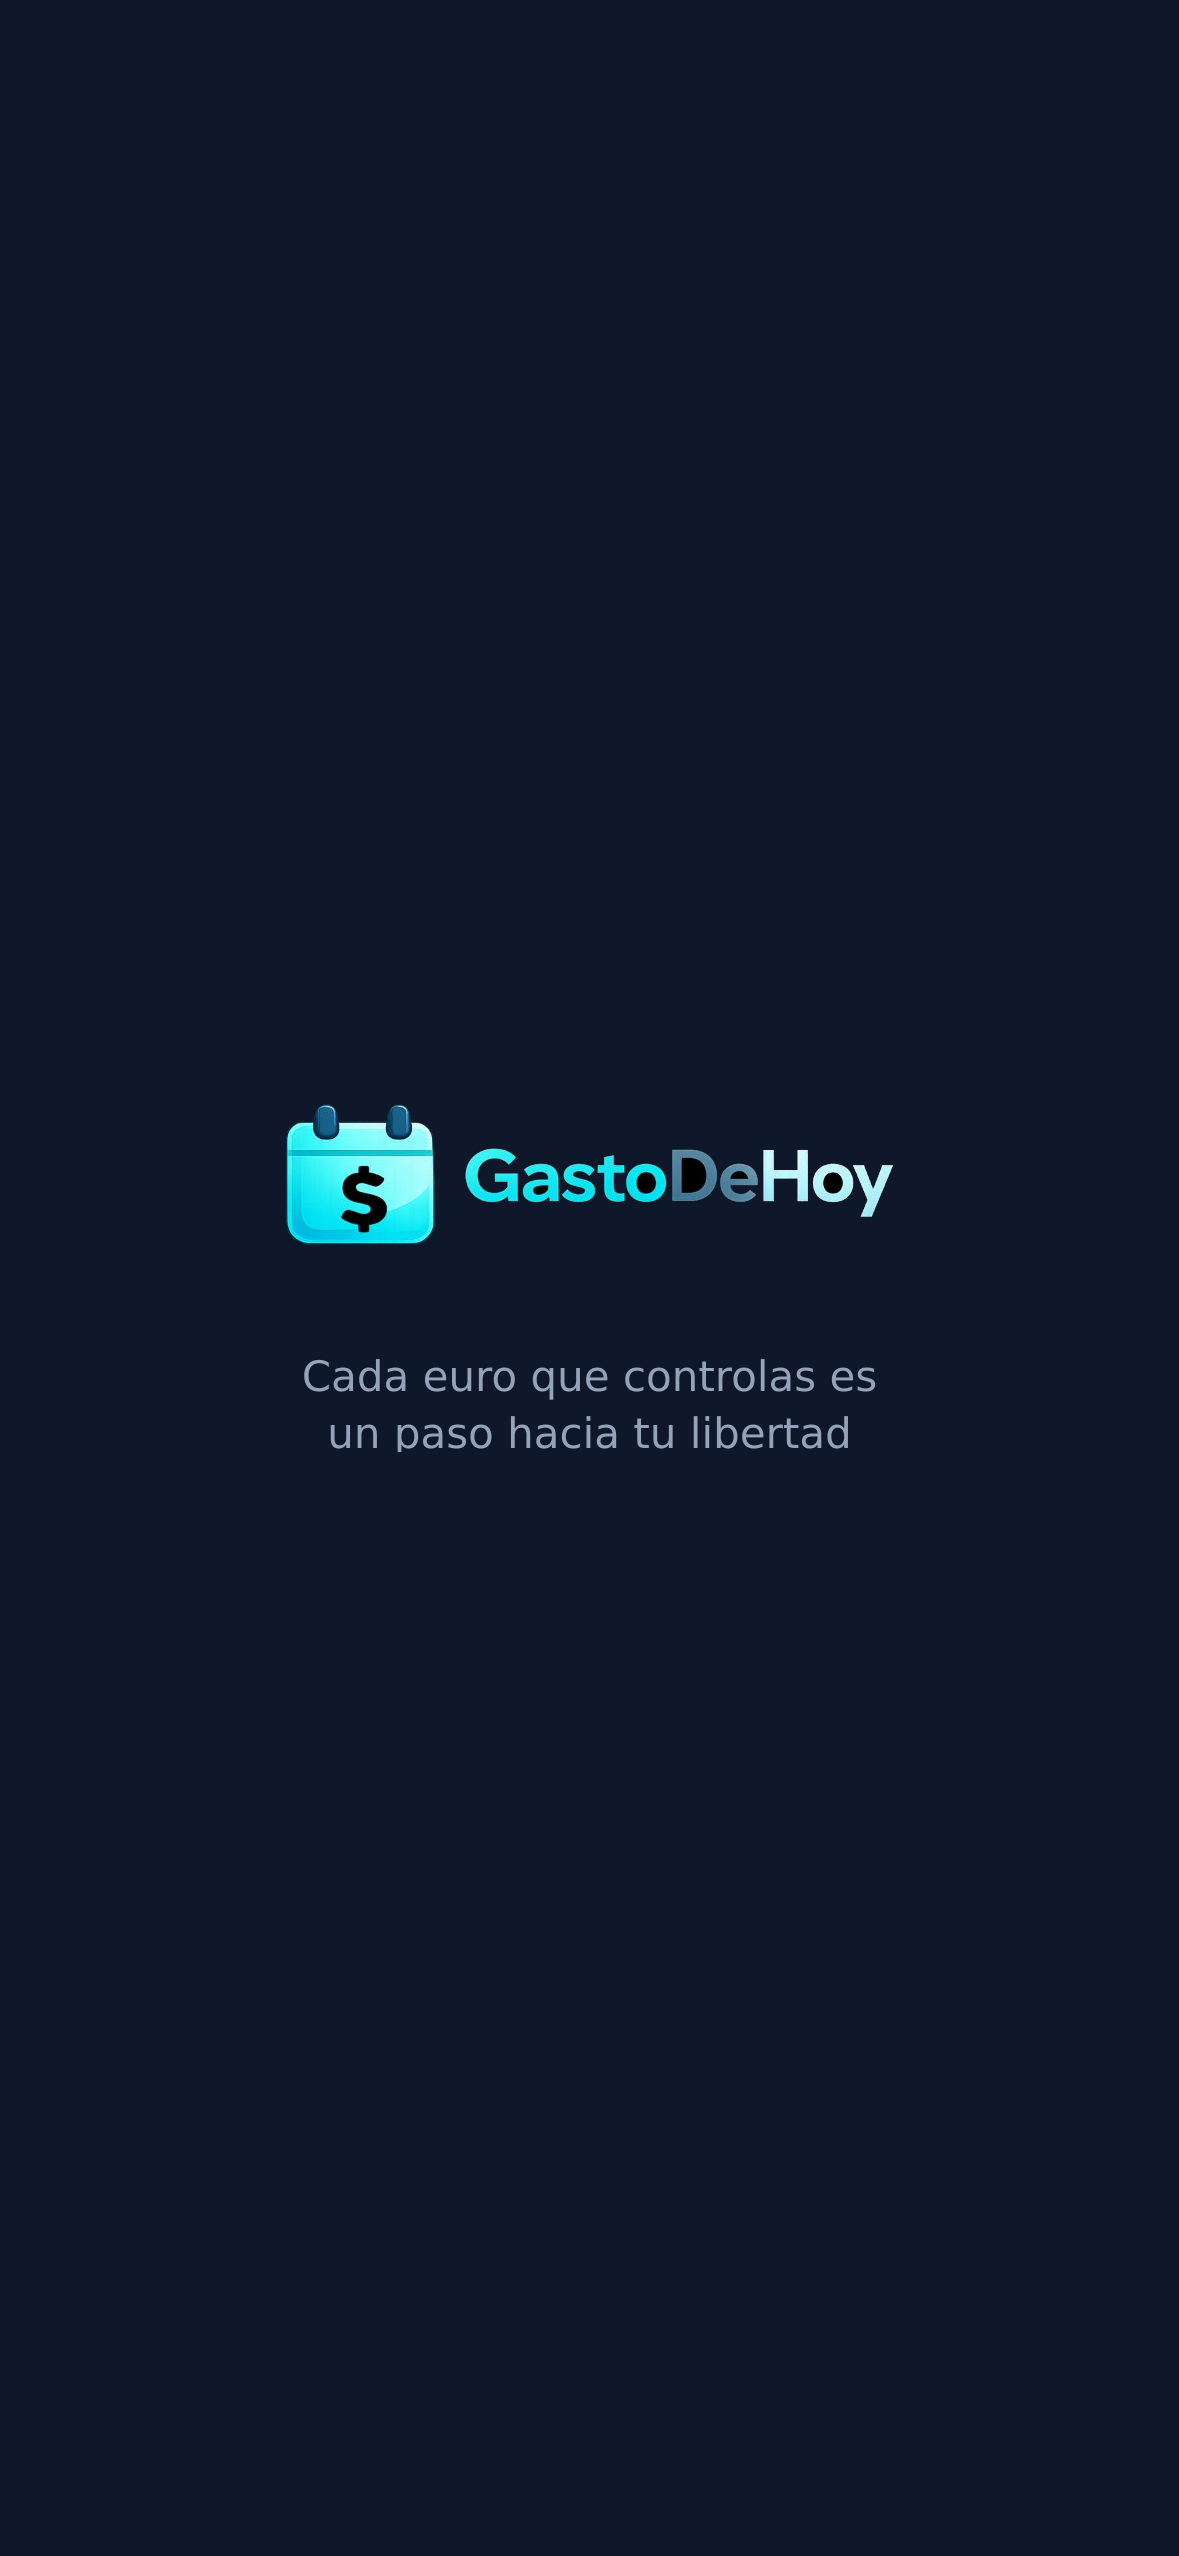
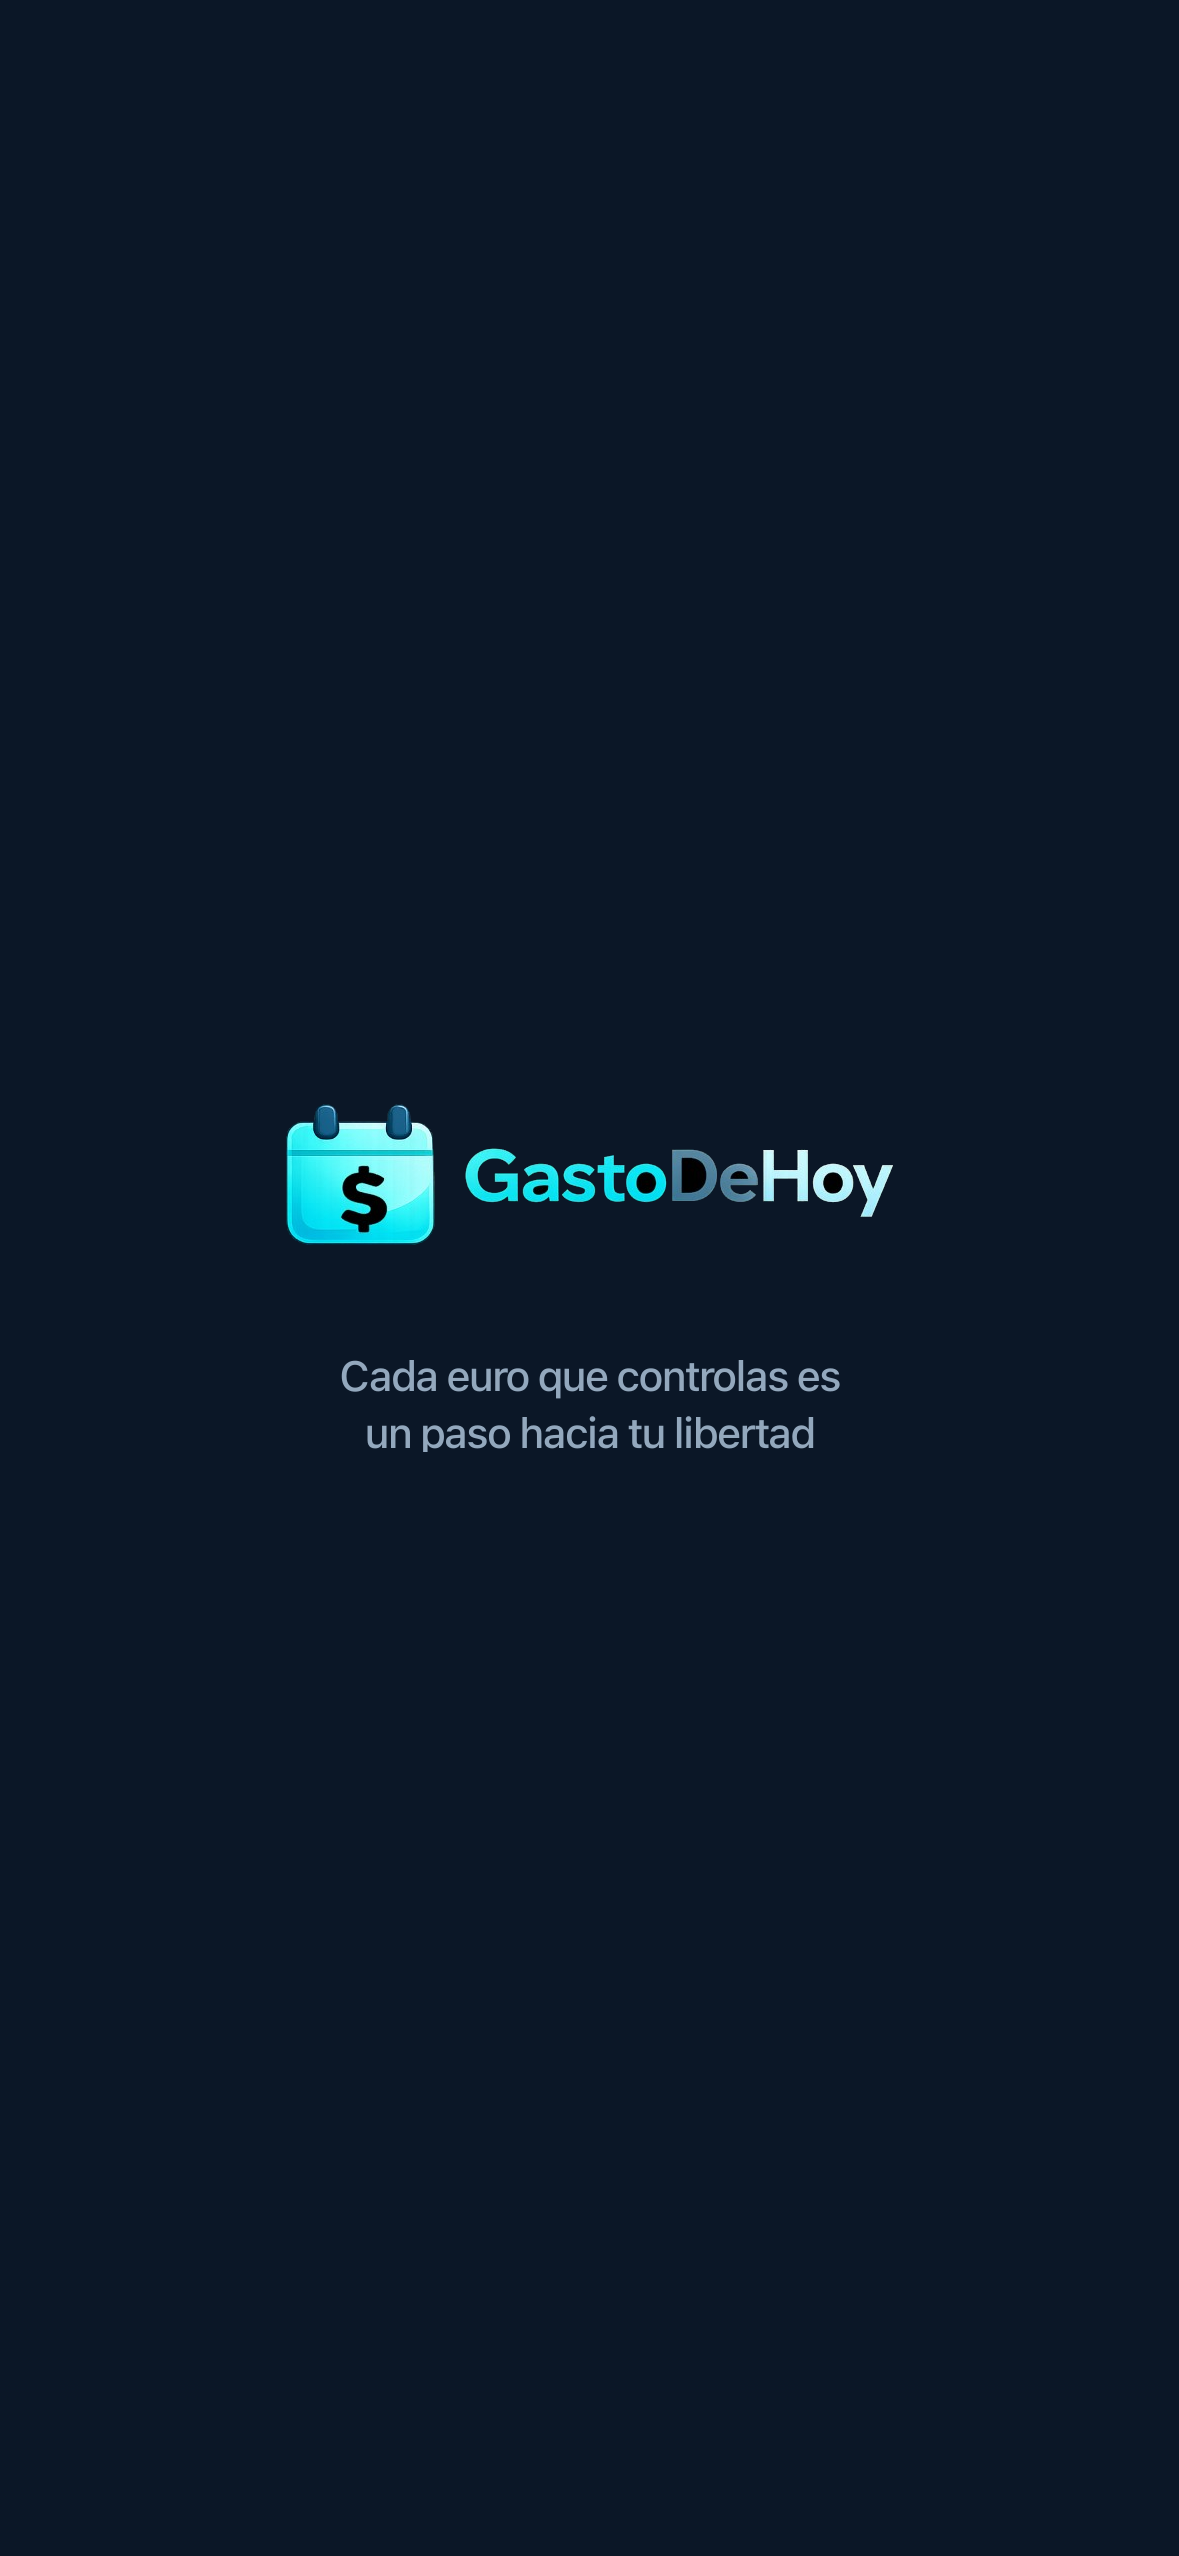
feat(estilo): aplica la paleta nueva a los tokens y mide los contrastes

Changed region(s): [[0.2748, 0.5254, 0.7328, 0.5872]]

diff --git a/web/src/index.css b/web/src/index.css
@@ -15,31 +15,34 @@
   --font-display: "Space Grotesk", system-ui, sans-serif;
   --font-mono: "JetBrains Mono", ui-monospace, monospace;
 
-  /* Claro (base cuando no hay .dark) — página suave, tarjetas blancas con borde legible */
-  --color-bg: #eef2f6;
-  --color-bg-soft: #e4ebf2;
+  /* Claro (base cuando no hay .dark) — página suave, tarjetas blancas con borde legible.
+     Paleta: azul oscuro #13233A, turquesa #29C5DC, verde #1F9D6B, ámbar #F2B84B.
+     En claro el turquesa, el verde y el ámbar son demasiado claros para texto
+     sobre blanco, así que se oscurecen (mismo tono) para el texto y el relleno. */
+  --color-bg: #eef3f8;
+  --color-bg-soft: #e3ebf3;
   --color-panel: #ffffff;
-  --color-panel-elevated: #f5f8fb;
-  --color-border: #c8d4e0;
-  --color-border-subtle: #d7e0ea;
-  --color-accent: #0e7490;
-  --color-accent-dim: rgb(14 116 144 / 0.12);
-  --color-accent-border: rgb(14 116 144 / 0.35);
-  --color-accent-ink: #ecfeff;
-  --color-ok: #059669;
-  --color-ok-dim: #ecfdf5;
-  --color-ok-border: rgb(5 150 105 / 0.35);
-  --color-warn: #d97706;
-  --color-warn-dim: #fffbeb;
-  --color-warn-border: rgb(217 119 6 / 0.35);
-  --color-crit: #e11d48;
+  --color-panel-elevated: #f4f8fb;
+  --color-border: #c6d3e1;
+  --color-border-subtle: #d5dfeb;
+  --color-accent: #0b7285;
+  --color-accent-dim: rgb(11 114 133 / 0.12);
+  --color-accent-border: rgb(11 114 133 / 0.35);
+  --color-accent-ink: #f0fdff;
+  --color-ok: #14785a;
+  --color-ok-dim: #e6f6ef;
+  --color-ok-border: rgb(20 120 90 / 0.35);
+  --color-warn: #8a5a00;
+  --color-warn-dim: #fdf3dc;
+  --color-warn-border: rgb(138 90 0 / 0.35);
+  --color-crit: #be123c;
   --color-crit-dim: #fff1f2;
-  --color-crit-border: rgb(225 29 72 / 0.32);
-  --color-text: #0f172a;
-  --color-text-muted: #475569;
-  --color-text-dim: #64748b;
-  --shadow-surface: 0 1px 2px rgb(15 23 42 / 0.05), 0 0 0 1px rgb(15 23 42 / 0.03);
-  --shadow-overlay: 0 16px 40px rgb(15 23 42 / 0.12);
+  --color-crit-border: rgb(190 18 60 / 0.32);
+  --color-text: #13233a;
+  --color-text-muted: #43546a;
+  --color-text-dim: #566478;
+  --shadow-surface: 0 1px 2px rgb(19 35 58 / 0.06), 0 0 0 1px rgb(19 35 58 / 0.03);
+  --shadow-overlay: 0 16px 40px rgb(19 35 58 / 0.14);
 }
 
 html {
@@ -54,30 +57,30 @@ html {
 
 html.dark {
   color-scheme: dark;
-  --color-bg: #070a0d;
-  --color-bg-soft: #0a0f14;
-  --color-panel: #0e141a;
-  --color-panel-elevated: #16202a;
-  --color-border: #182430;
-  --color-border-subtle: #223040;
-  --color-accent: #22d3ee;
-  --color-accent-dim: rgb(34 211 238 / 0.12);
-  --color-accent-border: rgb(34 211 238 / 0.32);
-  --color-accent-ink: #04222a;
-  --color-ok: #34d399;
-  --color-ok-dim: #0f2a22;
-  --color-ok-border: rgb(52 211 153 / 0.35);
-  --color-warn: #fbbf24;
-  --color-warn-dim: #2e2410;
-  --color-warn-border: rgb(251 191 36 / 0.3);
+  --color-bg: #0b1727;
+  --color-bg-soft: #0e1c2f;
+  --color-panel: #13233a;
+  --color-panel-elevated: #1a2e49;
+  --color-border: #223853;
+  --color-border-subtle: #2c4666;
+  --color-accent: #29c5dc;
+  --color-accent-dim: rgb(41 197 220 / 0.14);
+  --color-accent-border: rgb(41 197 220 / 0.34);
+  --color-accent-ink: #0b1727;
+  --color-ok: #3ecf97;
+  --color-ok-dim: #10312b;
+  --color-ok-border: rgb(62 207 151 / 0.35);
+  --color-warn: #f2b84b;
+  --color-warn-dim: #35290f;
+  --color-warn-border: rgb(242 184 75 / 0.34);
   --color-crit: #fb7185;
-  --color-crit-dim: #301620;
+  --color-crit-dim: #351927;
   --color-crit-border: rgb(251 113 133 / 0.32);
-  --color-text: #eef4f9;
-  --color-text-muted: #b4c5d4;
-  --color-text-dim: #8fa3b3;
-  --shadow-surface: 0 1px 0 rgb(0 0 0 / 0.12);
-  --shadow-overlay: 0 16px 48px rgb(0 0 0 / 0.45);
+  --color-text: #eef4fa;
+  --color-text-muted: #b7c8da;
+  --color-text-dim: #93a8bd;
+  --shadow-surface: 0 1px 0 rgb(0 0 0 / 0.16);
+  --shadow-overlay: 0 16px 48px rgb(0 0 0 / 0.5);
 }
 
 /*

diff --git a/web/index.html b/web/index.html
@@ -4,8 +4,8 @@
     <!-- MUST be first — theme class + bg before paint (react-theme-switch-animation: localStorage.theme) -->
     <script>
       (function () {
-        var bgDark = "#070A0D";
-        var bgLight = "#eef2f6";
+        var bgDark = "#0B1727";
+        var bgLight = "#eef3f8";
         /* Brand default: dark. Only "light" opts out. */
         var theme = "dark";
         try {
@@ -32,7 +32,7 @@
     <meta name="keywords" content="gastos, control de gastos, presupuesto, finanzas personales, ahorro, dinero, gestión financiera, gastos diarios" />
     <meta name="author" content="GastoDeHoy" />
     <meta name="robots" content="index, follow" />
-    <meta name="theme-color" content="#070A0D" />
+    <meta name="theme-color" content="#0B1727" />
     <meta http-equiv="Cache-Control" content="no-store, no-cache, must-revalidate" />
     <meta http-equiv="Pragma" content="no-cache" />
     <meta http-equiv="Expires" content="0" />
@@ -76,12 +76,12 @@
         height: 100%;
         overflow: hidden;
         font-family: system-ui, -apple-system, "Segoe UI", sans-serif;
-        background: #eef2f6 !important;
-        color: #0f172a;
+        background: #eef3f8 !important;
+        color: #13233a;
       }
       html.dark, html.dark body, html.dark #root {
-        background: #070A0D !important;
-        color: #e2e8f0;
+        background: #0B1727 !important;
+        color: #eef4fa;
       }
       html {
         height: 100dvh;
@@ -98,9 +98,9 @@
           max(1.25rem, env(safe-area-inset-bottom))
           max(1.25rem, env(safe-area-inset-left));
         box-sizing: border-box;
-        background: #eef2f6;
+        background: #eef3f8;
       }
-      html.dark #boot-splash { background: #070A0D; }
+      html.dark #boot-splash { background: #0B1727; }
       #boot-splash .boot-splash__inner {
         display: flex;
         flex-direction: column;
@@ -125,9 +125,9 @@
         font-size: 1rem;
         line-height: 1.5;
         font-weight: 500;
-        color: #475569;
+        color: #43546a;
       }
-      html.dark #boot-splash .boot-splash__tagline { color: #94a3b8; }
+      html.dark #boot-splash .boot-splash__tagline { color: #93a8bd; }
     </style>
     <script type="application/ld+json">
     {

diff --git a/web/src/components/dashboard/month-history-strip.tsx b/web/src/components/dashboard/month-history-strip.tsx
@@ -328,7 +328,7 @@ export function MonthHistoryStrip() {
                                 key={it.id}
                                 className="truncate rounded px-1 py-px text-[10px] font-medium leading-tight text-[var(--color-text)]"
                                 style={{
-                                  backgroundColor: `${it.category_color ?? "#22d3ee"}33`,
+                                  backgroundColor: `${it.category_color ?? "#29c5dc"}33`,
                                   color: it.category_color ?? "var(--color-accent)",
                                 }}
                               >
@@ -388,7 +388,7 @@ export function MonthHistoryStrip() {
                       <span
                         className="flex h-9 w-9 shrink-0 items-center justify-center rounded-lg"
                         style={{
-                          backgroundColor: `${it.category_color ?? "#223040"}22`,
+                          backgroundColor: `${it.category_color ?? "#2c4666"}22`,
                           color: it.category_color ?? "var(--color-accent)",
                         }}
                         aria-hidden

diff --git a/web/src/components/dashboard/variable-expenses-section.tsx b/web/src/components/dashboard/variable-expenses-section.tsx
@@ -132,7 +132,7 @@ export function VariableExpensesSection({
                       <div className="flex min-w-0 items-center gap-2">
                         <CatIcon
                           className="gdh-icon shrink-0"
-                          style={{ color: it.category_color ?? "#8fa3b3" }}
+                          style={{ color: it.category_color ?? "#93a8bd" }}
                         />
                         <p className="truncate font-semibold tabular-nums text-[var(--color-accent)]/90">
                           {money(it.amount)}

diff --git a/web/vite.config.ts b/web/vite.config.ts
@@ -43,8 +43,8 @@ export default defineConfig(({ mode }) => {
           short_name: "GastoDeHoy",
           description:
             "Descubre cuánto puedes gastar hoy y controla tus gastos diarios con tu presupuesto personal.",
-          theme_color: "#070A0D",
-          background_color: "#070A0D",
+          theme_color: "#0B1727",
+          background_color: "#0B1727",
           display: "standalone",
           id: "/",
           scope: "/",

diff --git a/web/src/components/theme-toggle.tsx b/web/src/components/theme-toggle.tsx
@@ -17,7 +17,7 @@ export function ThemeToggle({ className = "", size = "md" }: Props) {
   useEffect(() => {
     const meta = document.querySelector('meta[name="theme-color"]');
     if (meta) {
-      meta.setAttribute("content", isDark ? "#070A0D" : "#eef2f6");
+      meta.setAttribute("content", isDark ? "#0B1727" : "#eef3f8");
     }
   }, [isDark]);
 

diff --git a/web/src/components/theme-provider.tsx b/web/src/components/theme-provider.tsx
@@ -54,8 +54,8 @@ function writeTheme(isDark: boolean) {
   }
   document.documentElement.classList.toggle("dark", isDark);
   document.documentElement.style.backgroundColor = isDark
-    ? "#070A0D"
-    : "#eef2f6";
+    ? "#0B1727"
+    : "#eef3f8";
 }
 
 export function ThemeProvider({ children }: { children: ReactNode }) {

diff --git a/tools/check_contrast.py b/tools/check_contrast.py
@@ -1,0 +1,129 @@
+"""Mide los contrastes WCAG de los tokens de color de web/src/index.css.
+
+Uso:  python3 tools/check_contrast.py          (sale con código 1 si algo falla)
+
+Lee los tokens del tema claro (bloque @theme) y del oscuro (html.dark) y
+comprueba las parejas texto/fondo que usa la interfaz. Solo mira colores
+sólidos (#rrggbb); los semitransparentes (rgb(... / 0.12)) se mezclan sobre
+el fondo de la tarjeta antes de medir.
+"""
+
+from __future__ import annotations
+
+import re
+import sys
+from pathlib import Path
+
+CSS = Path(__file__).resolve().parents[1] / "web" / "src" / "index.css"
+
+TEXT = 4.5  # WCAG AA, texto normal
+UI = 3.0  # WCAG AA, componentes y gráficos
+
+
+def parse_block(css: str, start: str) -> dict[str, str]:
+    """Variables --color-* del bloque que empieza en `start`."""
+    i = css.index(start)
+    j = css.index("{", i)
+    depth, k = 0, j
+    while True:
+        if css[k] == "{":
+            depth += 1
+        elif css[k] == "}":
+            depth -= 1
+            if depth == 0:
+                break
+        k += 1
+    body = css[j:k]
+    return {
+        m.group(1): m.group(2).strip()
+        for m in re.finditer(r"--color-([a-z0-9-]+):\s*([^;]+);", body)
+    }
+
+
+def to_rgb(value: str, over: tuple[float, float, float] | None = None):
+    value = value.strip()
+    if value.startswith("#"):
+        h = value[1:]
+        if len(h) == 3:
+            h = "".join(c * 2 for c in h)
+        return tuple(int(h[n : n + 2], 16) for n in (0, 2, 4))
+    m = re.fullmatch(r"rgb\(\s*(\d+)\s+(\d+)\s+(\d+)\s*(?:/\s*([\d.]+))?\)", value)
+    if m:
+        r, g, b = (int(m.group(n)) for n in (1, 2, 3))
+        a = float(m.group(4)) if m.group(4) else 1.0
+        if over is None:
+            return (r, g, b)
+        return tuple(round(a * c + (1 - a) * o) for c, o in zip((r, g, b), over))
+    raise ValueError(f"color no reconocido: {value}")
+
+
+def lum(rgb) -> float:
+    def ch(c):
+        c /= 255
+        return c / 12.92 if c <= 0.03928 else ((c + 0.055) / 1.055) ** 2.4
+
+    r, g, b = (ch(c) for c in rgb)
+    return 0.2126 * r + 0.7152 * g + 0.0722 * b
+
+
+def ratio(a, b) -> float:
+    la, lb = sorted((lum(a), lum(b)), reverse=True)
+    return (la + 0.05) / (lb + 0.05)
+
+
+# (texto, fondo, mínimo, descripción)
+PAIRS = [
+    ("text", "bg", TEXT, "texto sobre página"),
+    ("text", "panel", TEXT, "texto sobre tarjeta"),
+    ("text", "panel-elevated", TEXT, "texto sobre tarjeta elevada"),
+    ("text-muted", "bg", TEXT, "texto atenuado sobre página"),
+    ("text-muted", "panel", TEXT, "texto atenuado sobre tarjeta"),
+    ("text-muted", "panel-elevated", TEXT, "texto atenuado sobre elevada"),
+    ("text-dim", "bg", TEXT, "texto tenue sobre página"),
+    ("text-dim", "panel", TEXT, "texto tenue sobre tarjeta"),
+    ("accent", "bg", TEXT, "acento (enlaces, cifra) sobre página"),
+    ("accent", "panel", TEXT, "acento sobre tarjeta"),
+    ("accent-ink", "accent", TEXT, "texto del botón principal"),
+    ("ok", "panel", TEXT, "estado «bien» sobre tarjeta"),
+    ("ok", "ok-dim", TEXT, "estado «bien» sobre su fondo"),
+    ("warn", "panel", TEXT, "estado «justo» sobre tarjeta"),
+    ("warn", "warn-dim", TEXT, "estado «justo» sobre su fondo"),
+    ("crit", "panel", TEXT, "estado «mal» sobre tarjeta"),
+    ("crit", "crit-dim", TEXT, "estado «mal» sobre su fondo"),
+]
+
+# Informativas: no bloquean (los bordes decorativos no exigen 3:1).
+INFO = [
+    ("border-subtle", "panel", UI, "borde de campos sobre tarjeta"),
+    ("accent", "panel", UI, "anillo de foco sobre tarjeta"),
+]
+
+
+def check(theme: str, tokens: dict[str, str], base_over: str) -> int:
+    fails = 0
+    page = to_rgb(tokens["bg"])
+    print(f"\n== Tema {theme} ==")
+    for fg, bg, minimum, label in PAIRS + INFO:
+        informative = (fg, bg, minimum, label) in INFO
+        bg_rgb = to_rgb(tokens[bg], page)
+        fg_rgb = to_rgb(tokens[fg], bg_rgb)
+        r = ratio(fg_rgb, bg_rgb)
+        ok = r >= minimum
+        mark = "ok " if ok else ("info" if informative else "FALLA")
+        if not ok and not informative:
+            fails += 1
+        print(f"  {mark:5} {r:5.2f}:1 (mín {minimum})  {label}  [{fg} sobre {bg}]")
+    return fails
+
+
+def main() -> int:
+    css = CSS.read_text(encoding="utf-8")
+    light = parse_block(css, "@theme")
+    dark = {**light, **parse_block(css, "html.dark")}
+    fails = check("claro", light, "") + check("oscuro", dark, "")
+    print(f"\n{'Todo en orden' if not fails else str(fails) + ' pareja(s) por debajo del mínimo'}")
+    return 1 if fails else 0
+
+
+if __name__ == "__main__":
+    sys.exit(main())
